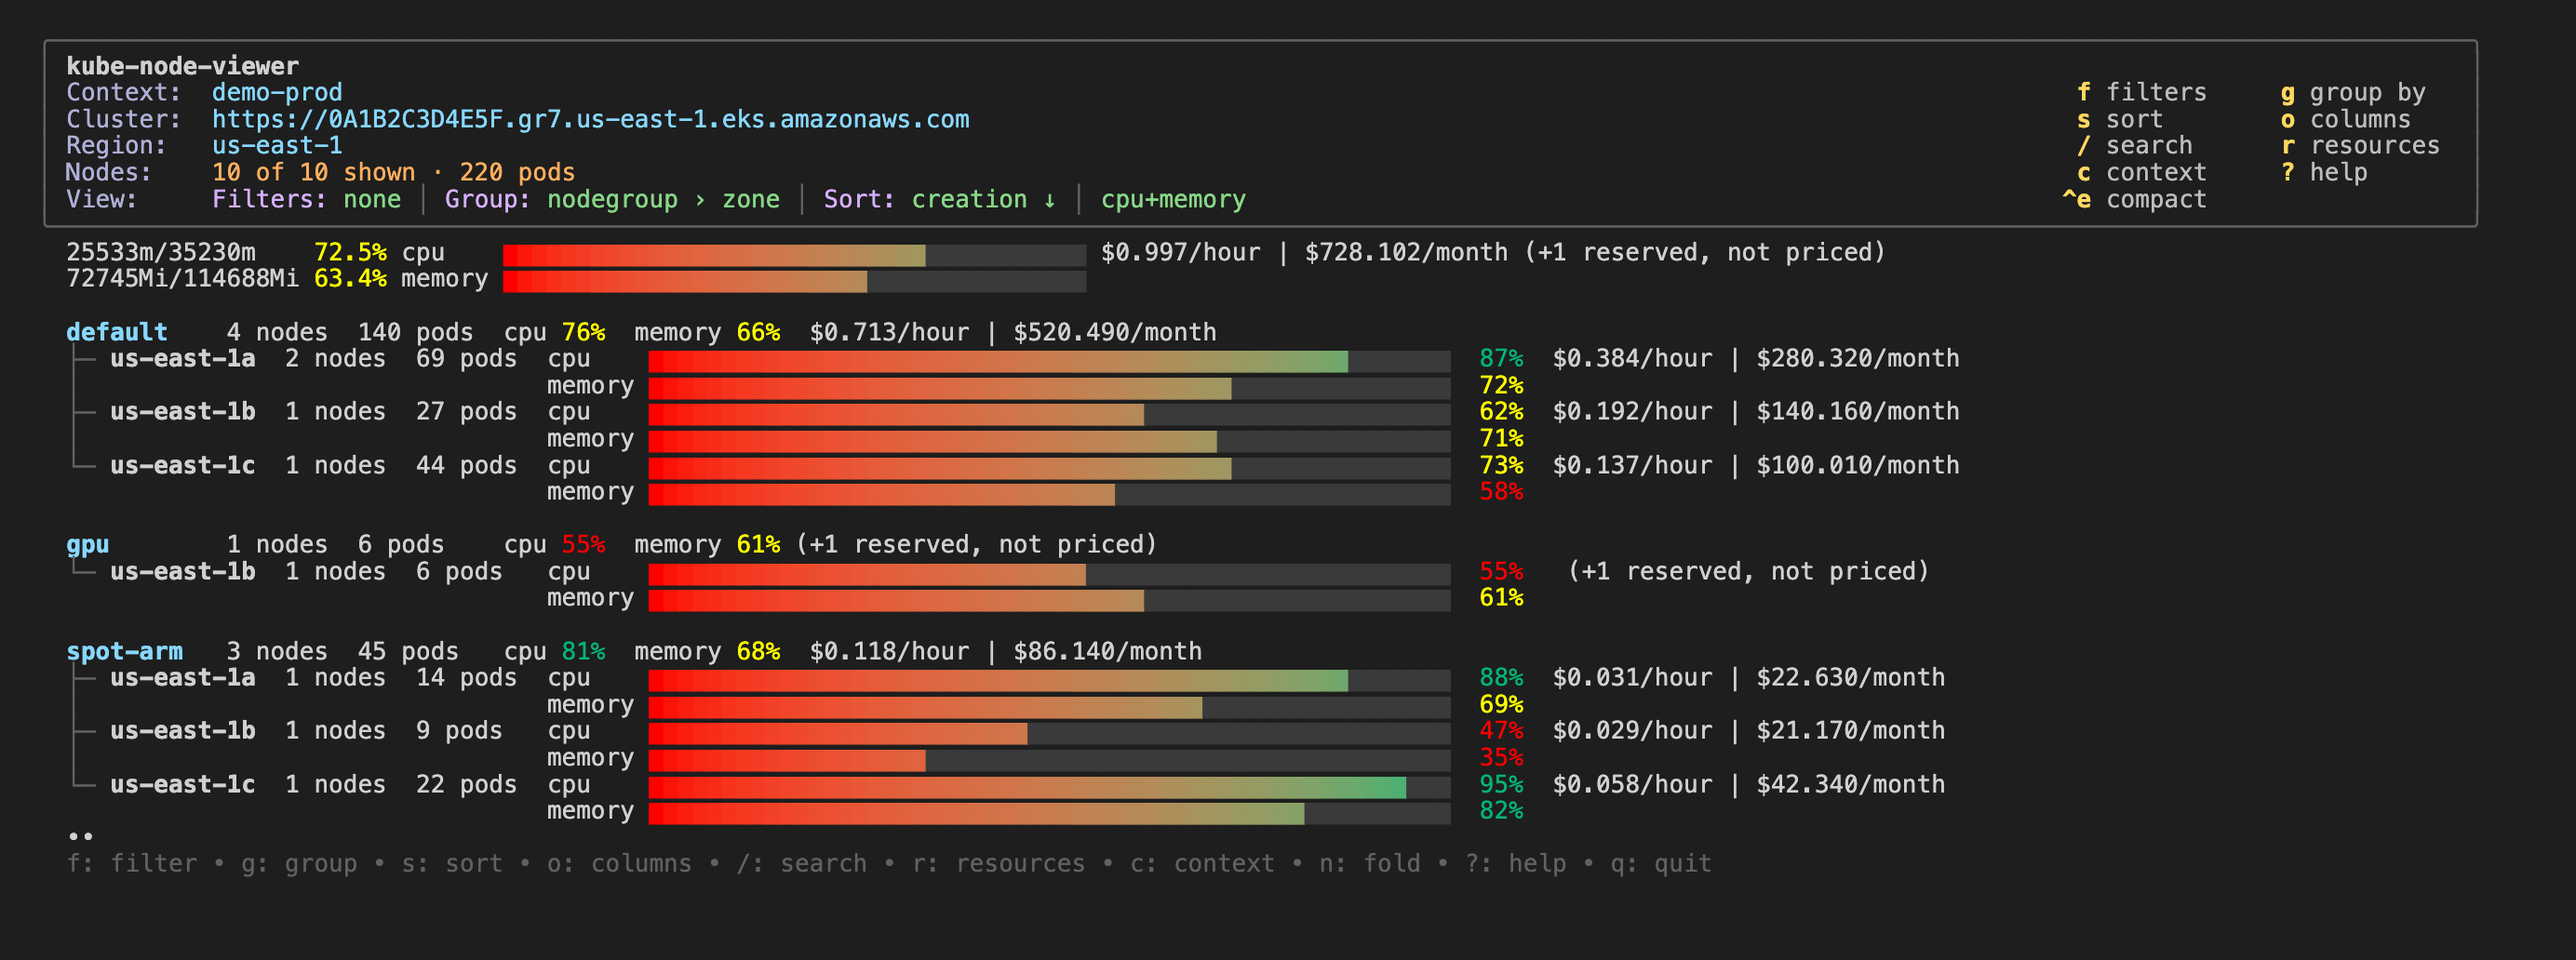
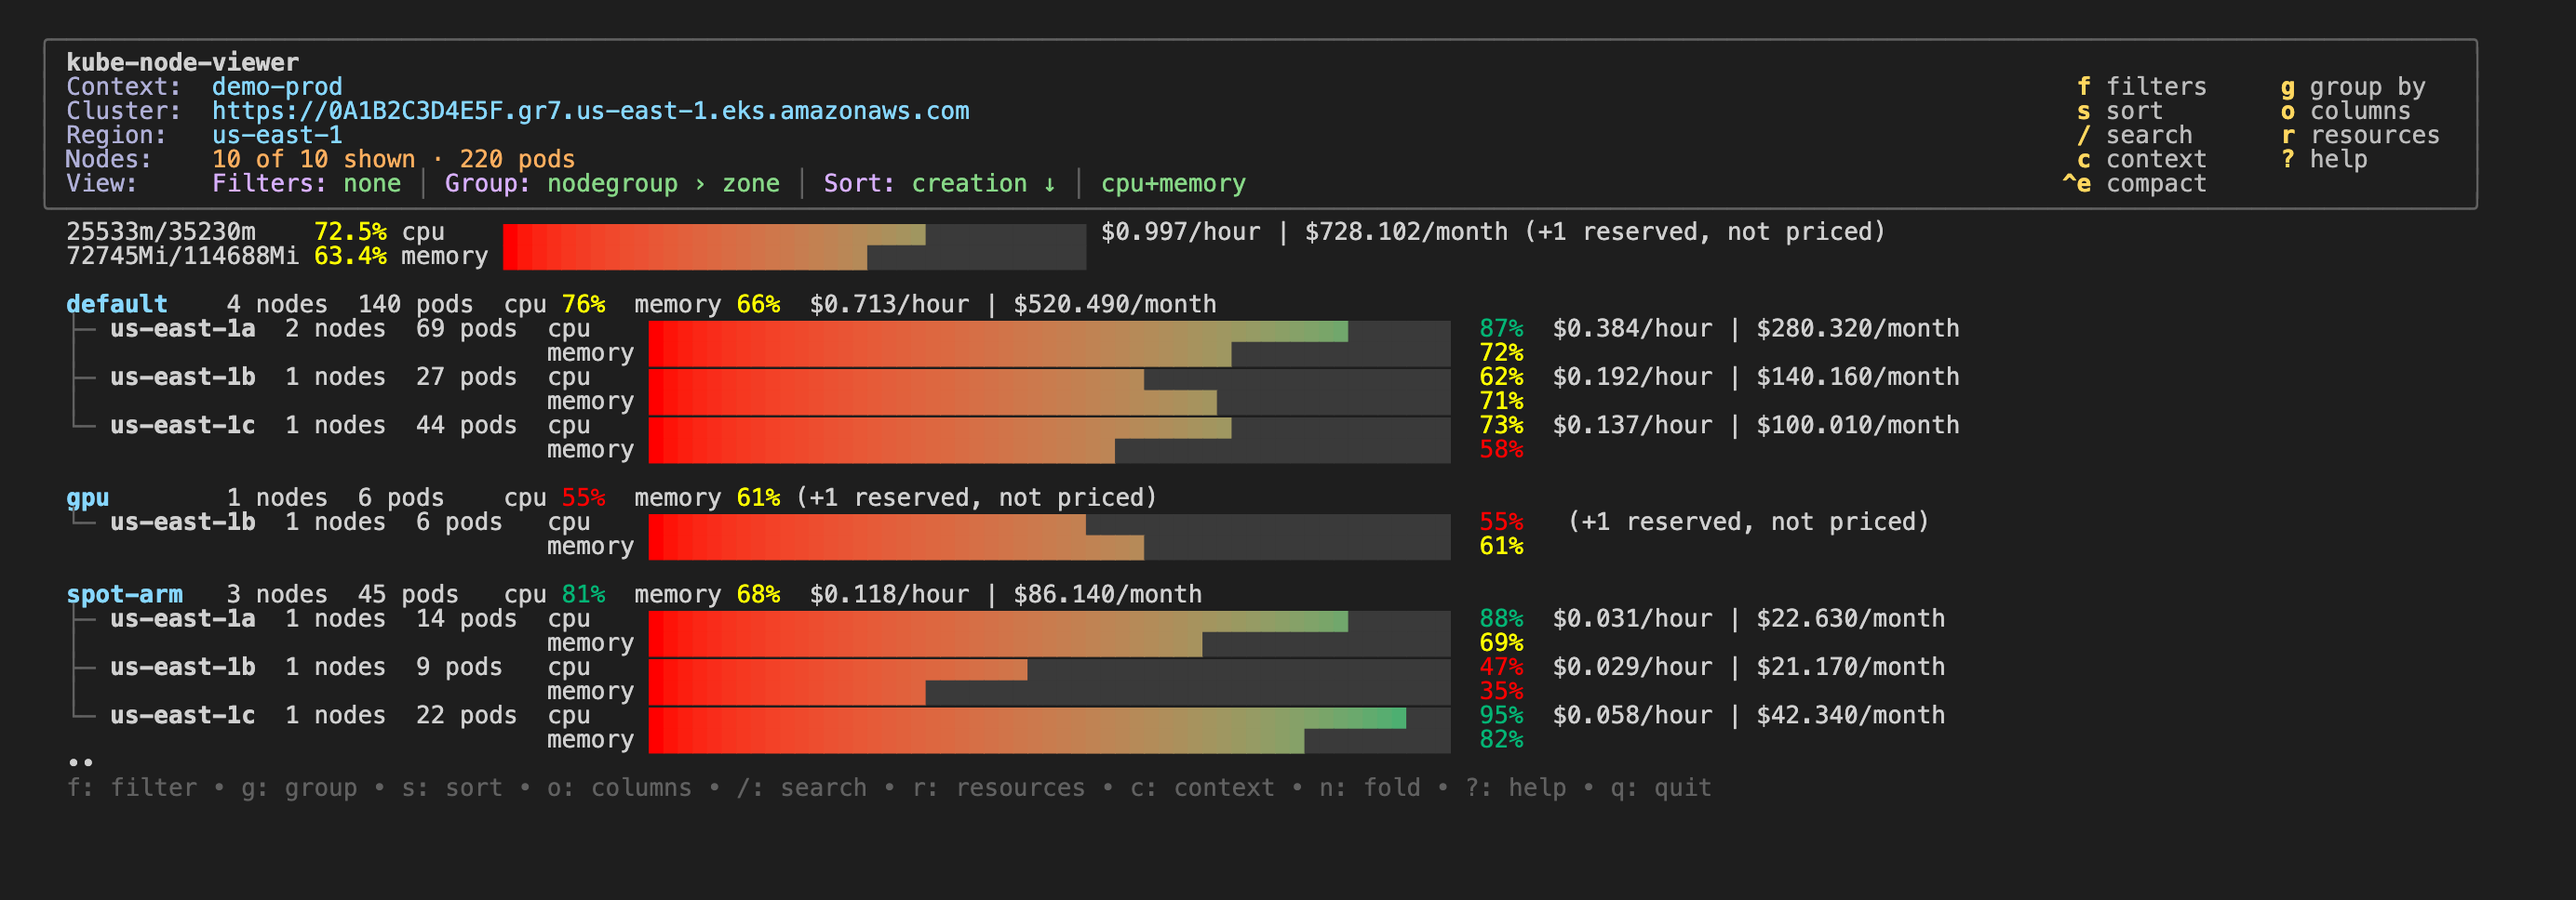
style: gap between nodes, not between a node's bars
The blank line between nodes goes. A node's first bar keeps the thin gap
above it and its other resources use the full block, so a node's cpu and
memory bars form one block and nodes read apart. Groups and the cluster
summary follow the same rule; README images use a terminal line height.

diff --git a/pkg/model/uimodel.go b/pkg/model/uimodel.go
@@ -116,6 +116,7 @@ type barKey struct {
 	fill           int
 	width          int
 	showPercentage bool
+	cell           rune
 }
 
 // every fill at or above 100% draws the same full bar
@@ -133,7 +134,7 @@ func (u *UIModel) progressBar(fill float64) string {
 	if rounded > maxCachedBarFill {
 		return u.progress.ViewAs(fill)
 	}
-	key := barKey{fill: rounded, width: u.progress.Width, showPercentage: u.progress.ShowPercentage}
+	key := barKey{fill: rounded, width: u.progress.Width, showPercentage: u.progress.ShowPercentage, cell: u.progress.Full}
 	if bar, ok := u.bars[key]; ok {
 		return bar
 	}
@@ -142,11 +143,13 @@ func (u *UIModel) progressBar(fill float64) string {
 	return bar
 }
 
-// barCell fills the usage bars: a block 7/8 high leaves a thin gap above it,
-// so bars stacked on consecutive lines (cpu, memory) read apart. The empty
-// part is the same block in dark grey, keeping the gap along the whole bar.
+// A node's (or group's) first bar is drawn with a block 7/8 high, which
+// leaves a thin gap above it, setting it apart from the one before; its other
+// resources use the full block and stay joined to it. The empty part is the
+// same block in dark grey, so the gap runs along the whole bar.
 const (
 	barCell       = '▇'
+	barJoinedCell = '█'
 	barEmptyColor = "#3a3a3a"
 )
 
@@ -155,6 +158,15 @@ func newProgress(style *Style, opts ...progress.Option) progress.Model {
 	p := progress.New(append([]progress.Option{style.gradient, progress.WithFillCharacters(barCell, barCell)}, opts...)...)
 	p.EmptyColor = barEmptyColor
 	return p
+}
+
+// barRune is the cell for the bar on the given line of a stacked block: the
+// first line keeps the gap above it, the next ones join it.
+func barRune(line int) rune {
+	if line == 0 {
+		return barCell
+	}
+	return barJoinedCell
 }
 
 // NewUIModel starts with the default view state; SetView replaces it.
@@ -304,9 +316,11 @@ func (u *UIModel) colorizeUsage(pctUsed float64, label string) string {
 
 // usageBar is a bar of the given total width followed by its percentage,
 // coloured like colorizeUsage.
-func (u *UIModel) usageBar(fill float64, width int) string {
+func (u *UIModel) usageBar(fill float64, width int, cell rune) string {
 	defer func(w int, pct bool) { u.progress.Width, u.progress.ShowPercentage = w, pct }(u.progress.Width, u.progress.ShowPercentage)
+	defer u.setBarCell(u.progress.Full)
 	u.progress.Width, u.progress.ShowPercentage = max(width-5, 1), false
+	u.setBarCell(cell)
 	pct := fill * 100
 	if math.IsNaN(pct) || pct < 0 {
 		pct = 0
@@ -325,10 +339,17 @@ func (u *UIModel) clusterSummary(stats Stats) string {
 	return b.String()
 }
 
+// setBarCell sets the cell the bar is drawn with, filled and empty part.
+func (u *UIModel) setBarCell(cell rune) {
+	u.progress.Full, u.progress.Empty = cell, cell
+}
+
 func (u *UIModel) writeClusterSummary(resources []v1.ResourceName, stats Stats, w io.Writer) {
 	firstLine := true
+	defer u.setBarCell(u.progress.Full)
 
-	for _, res := range resources {
+	for i, res := range resources {
+		u.setBarCell(barRune(i))
 		allocatable := stats.AllocatableResources[res]
 		used := stats.UsedResources[res]
 		pctUsed := 0.0

diff --git a/pkg/model/layout.go b/pkg/model/layout.go
@@ -196,14 +196,11 @@ type block struct {
 	// page is shown
 	node  *Node
 	count int
-	// gap is a blank line kept before the node when it follows another node,
-	// so stacked resource lines read as one node each
-	gap int
 }
 
 func (b block) height() int {
 	if b.node != nil {
-		return b.count + b.gap
+		return b.count
 	}
 	return len(b.lines)
 }
@@ -226,10 +223,6 @@ func (u *UIModel) currentPage(nodes []*Node, height int) (lines []string, pageCo
 
 	var blocks []block
 	groups := u.view.Groups(nodes)
-	gap := 0
-	if len(u.cluster.resources) > 1 {
-		gap = 1
-	}
 	// with the node list hidden the groups carry their own usage bars
 	// Folded, the deepest level shown carries the usage bars and the levels
 	// above it are one-line summaries. With details on (d), the level below
@@ -270,7 +263,7 @@ func (u *UIModel) currentPage(nodes []*Node, height int) (lines []string, pageCo
 			walk(g.Groups)
 			if table != nil {
 				for _, n := range g.Nodes {
-					blocks = append(blocks, block{path: g.Path, node: n, count: len(u.cluster.resources), gap: gap})
+					blocks = append(blocks, block{path: g.Path, node: n, count: len(u.cluster.resources)})
 				}
 			}
 		}
@@ -279,22 +272,18 @@ func (u *UIModel) currentPage(nodes []*Node, height int) (lines []string, pageCo
 		walk(groups)
 	} else {
 		for _, n := range nodes {
-			blocks = append(blocks, block{node: n, count: len(u.cluster.resources), gap: gap})
+			blocks = append(blocks, block{node: n, count: len(u.cluster.resources)})
 		}
 	}
 	pages := paginate(blocks, top, height)
 	u.page = min(u.page, len(pages)-1)
-	afterNode := false
+	// nodes are set apart by the gap above their first bar, not a blank line
 	for _, b := range pages[u.page] {
 		if b.node != nil {
-			if afterNode && b.gap > 0 {
-				lines = append(lines, "")
-			}
 			lines = append(lines, table.render(b.node)...)
 		} else {
 			lines = append(lines, b.lines...)
 		}
-		afterNode = b.node != nil
 	}
 	return lines, len(pages), hiddenColumns
 }
@@ -487,7 +476,7 @@ func (u *UIModel) groupTable(groups []*Group, tree map[*Group]groupTree, depth i
 			lines = append(lines, "")
 		}
 		for i, res := range u.cluster.resources {
-			bar := pad(u.usageBar(g.Stats.PercentUsed(res)/100, barW), barW)
+			bar := pad(u.usageBar(g.Stats.PercentUsed(res)/100, barW, barRune(i)), barW)
 			if i == 0 {
 				line := pad(r.name, nameW) + "  " + pad(r.nodes, nodesW) + "  " + pad(r.pods, podsW) + "  " + pad(string(res), resW) + " " + bar
 				if r.price != "" {
@@ -640,7 +629,7 @@ func (t *nodeTable) render(n *Node) []string {
 
 	lines := make([]string, 0, len(r.fills))
 	for j, res := range u.cluster.resources {
-		bar := pad(u.usageBar(r.fills[j], t.barW), t.barW)
+		bar := pad(u.usageBar(r.fills[j], t.barW, barRune(j)), t.barW)
 		if j == 0 {
 			lines = append(lines, t.indent+pad(r.name, t.nameW)+" "+pad(string(res), t.resW)+" "+bar+" "+pad(r.pods, t.podsW)+t.tail(r.cells))
 		} else {

diff --git a/pkg/model/panels_internal_test.go b/pkg/model/panels_internal_test.go
@@ -487,7 +487,7 @@ func TestCollapsedGroupsShowUsageBars(t *testing.T) {
 	bars := 0
 	groups := out[strings.Index(out, "OnDemand"):]
 	for _, line := range strings.Split(groups, "\n") {
-		if strings.Contains(line, "▇") && strings.Contains(line, "%") {
+		if strings.ContainsAny(line, "▇█") && strings.Contains(line, "%") {
 			bars++
 		}
 	}
@@ -551,9 +551,9 @@ func TestNFoldsOneLevelPerPress(t *testing.T) {
 	if got := look(); got != (screen{nodes: false, sub: true, top: true}) {
 		t.Errorf("details on: %+v\n%s", got, u.View())
 	}
-	if out := u.View(); strings.Contains(out, "└─ default") && strings.Count(out, "▇") > 0 {
+	if out := u.View(); strings.Contains(out, "└─ default") && strings.ContainsAny(out, "▇█") {
 		for _, line := range strings.Split(out, "\n") {
-			if strings.Contains(line, "└─ default") && strings.Contains(line, "▇") {
+			if strings.Contains(line, "└─ default") && strings.ContainsAny(line, "▇█") {
 				t.Errorf("a detail row has a bar: %q", line)
 			}
 		}

diff --git a/scripts/screenshots/ansi2html.py b/scripts/screenshots/ansi2html.py
@@ -83,6 +83,6 @@ if len(sys.argv) > 3:
 open(dst, "w", encoding="utf-8").write("""<!doctype html><meta charset="utf-8">
 <style>
 html,body{margin:0;background:%s}
-pre{margin:0;padding:14px 20px 18px;color:%s;font:13px/1.1 Menlo,"SF Mono",monospace;white-space:pre}
+pre{margin:0;padding:14px 20px 18px;color:%s;font:13px/1 Menlo,"SF Mono",monospace;white-space:pre}
 .cap{padding:9px 20px;background:#2a2a40;color:#ffd75f;font:bold 14px Menlo,"SF Mono",monospace}
 </style>%s<pre>%s</pre>""" % (BG, FG, caption, body))

diff --git a/specs/interactive-tui/requirements.md b/specs/interactive-tui/requirements.md
@@ -194,10 +194,12 @@ hidden at once.
 > (under-used is the costly case). With stacked resources a blank line
 > separates nodes. The node list gets no frame of its own.
 
-> **Added 2026-11-02.** Usage bars use a 7/8-high block for both the filled
-> and the empty part (dark grey), so bars stacked on consecutive lines keep a
-> thin gap in the terminal, as in the README images; those are rendered at a
-> terminal-like line height.
+> **Added 2026-11-02.** Nodes are set apart by a thin gap, not a blank line:
+> a node's (or group's) first bar uses a 7/8-high block, which leaves a gap
+> above it, and its other resources use the full block, joined to it. The
+> empty part of a bar is the same block in dark grey. README images are
+> rendered at line height 1, like a terminal. (Supersedes the blank line
+> between nodes added in the UX pass.)
 
 **R14** WHEN the screen is smaller than the content THEN the system SHALL
 paginate by lines, repeat the group path on a page that continues a group
